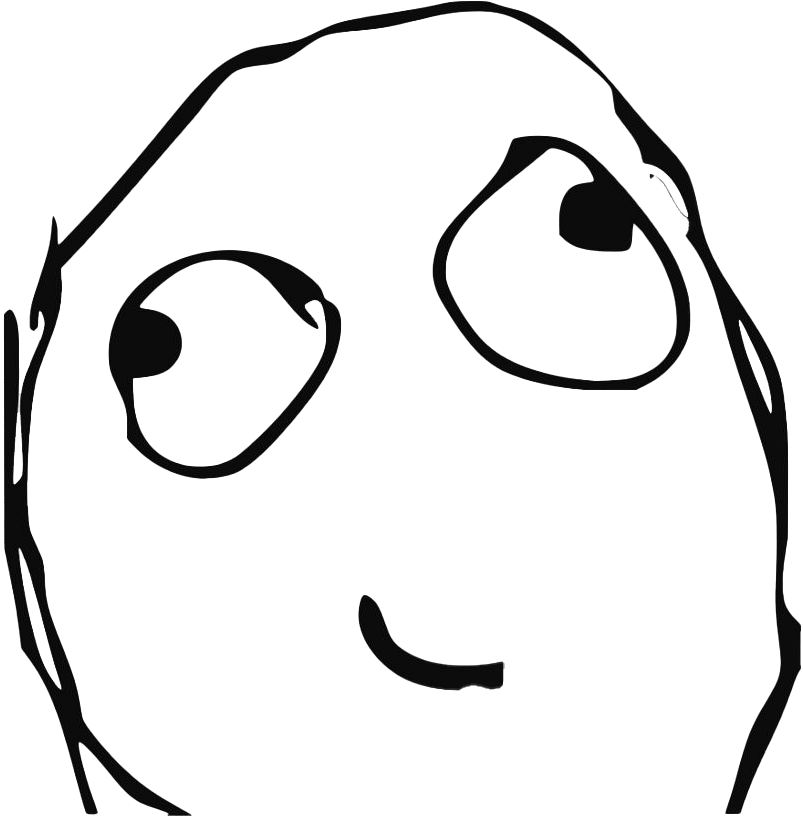
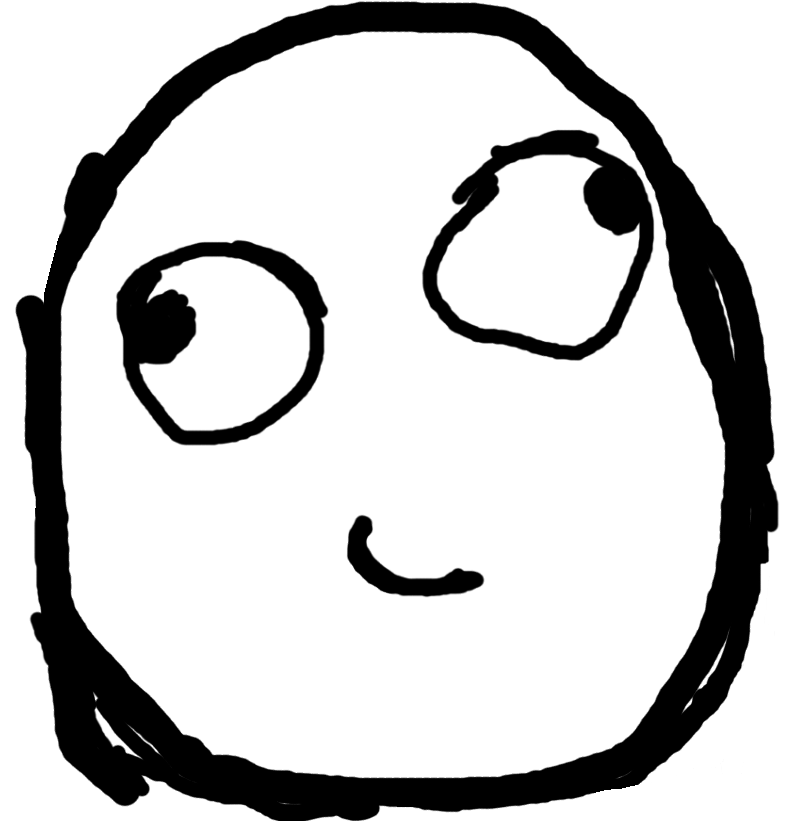
Change User.png and user DialogBox color

Changed region(s): [[0.0, 0.0, 1.0, 1.0], [0.1245, 0.2741, 0.4359, 0.609], [0.4359, 0.609, 0.6227, 0.8526]]

diff --git a/src/main/java/fishstock/ui/DialogBox.java b/src/main/java/fishstock/ui/DialogBox.java
@@ -16,7 +16,6 @@ import javafx.scene.layout.Background;
 import javafx.scene.layout.BackgroundFill;
 import javafx.scene.layout.HBox;
 import javafx.scene.paint.Color;
-import javafx.scene.text.Font;
 
 /**
  * This control represents a dialog box consisting of an ImageView to represent the speaker's face and a label
@@ -56,8 +55,8 @@ public class DialogBox extends HBox {
      */
     public static DialogBox getUserDialog(String text, Image img) {
         DialogBox db = new DialogBox(text, img);
-        db.dialog.setTextFill(Color.DARKGREEN);
-        db.dialog.setFont(new Font("Comic Sans MS", 14));
+        db.dialog.setTextFill(Color.MINTCREAM);
+        db.setBackground(new Background(new BackgroundFill(Color.CHOCOLATE, null, null)));
         return db;
     }
 
@@ -68,7 +67,6 @@ public class DialogBox extends HBox {
         DialogBox db = new DialogBox(text, img);
         db.flip();
         db.dialog.setTextFill(Color.SADDLEBROWN);
-        db.dialog.setFont(new Font("Verdana", 13));
         db.setBackground(new Background(new BackgroundFill(Color.BLANCHEDALMOND, null, null)));
         return db;
     }
